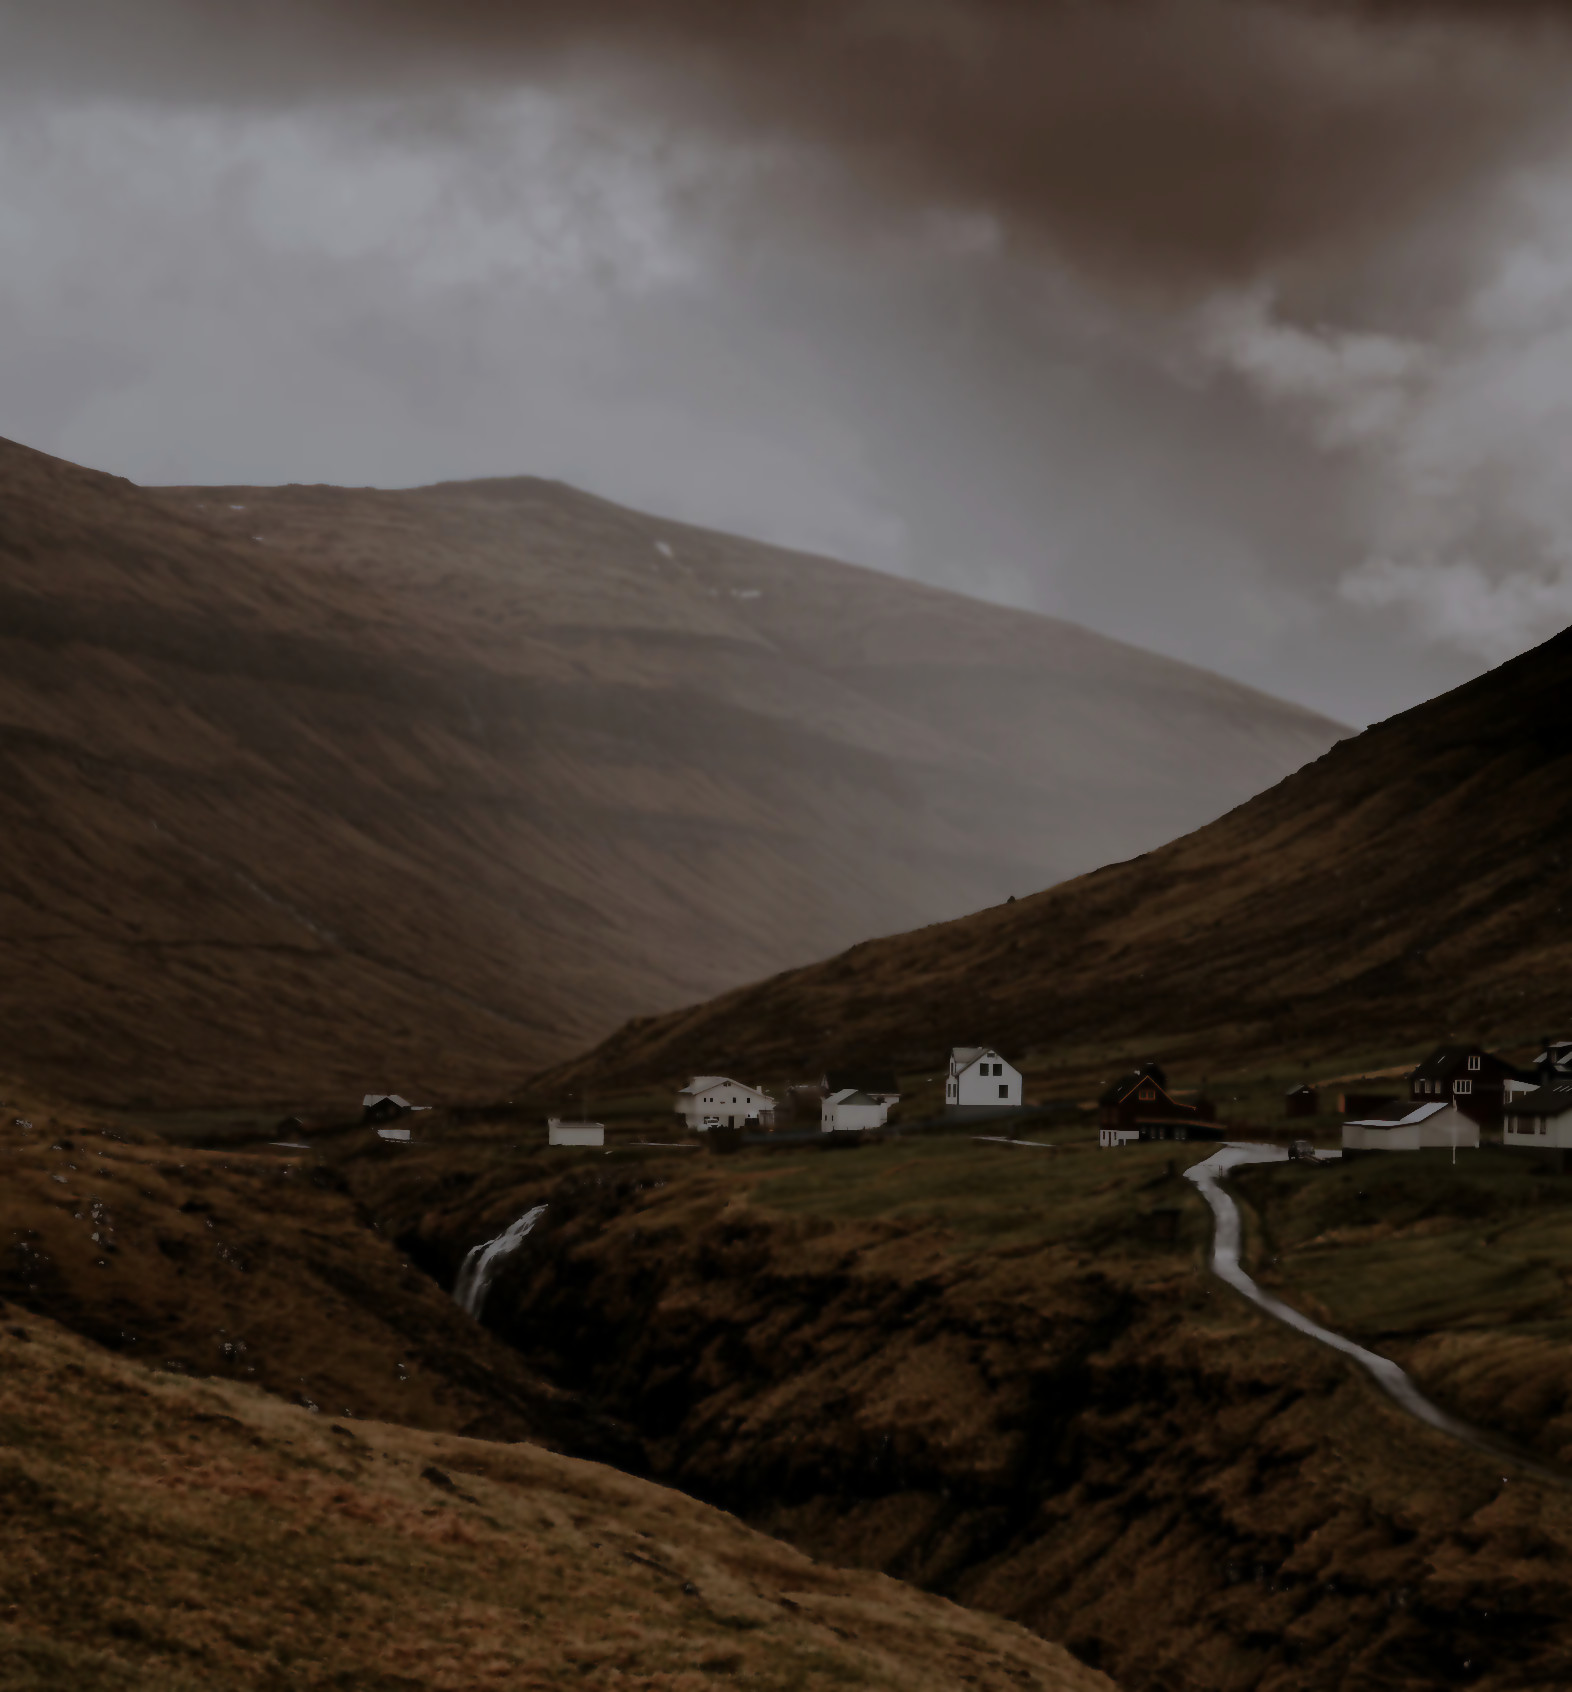
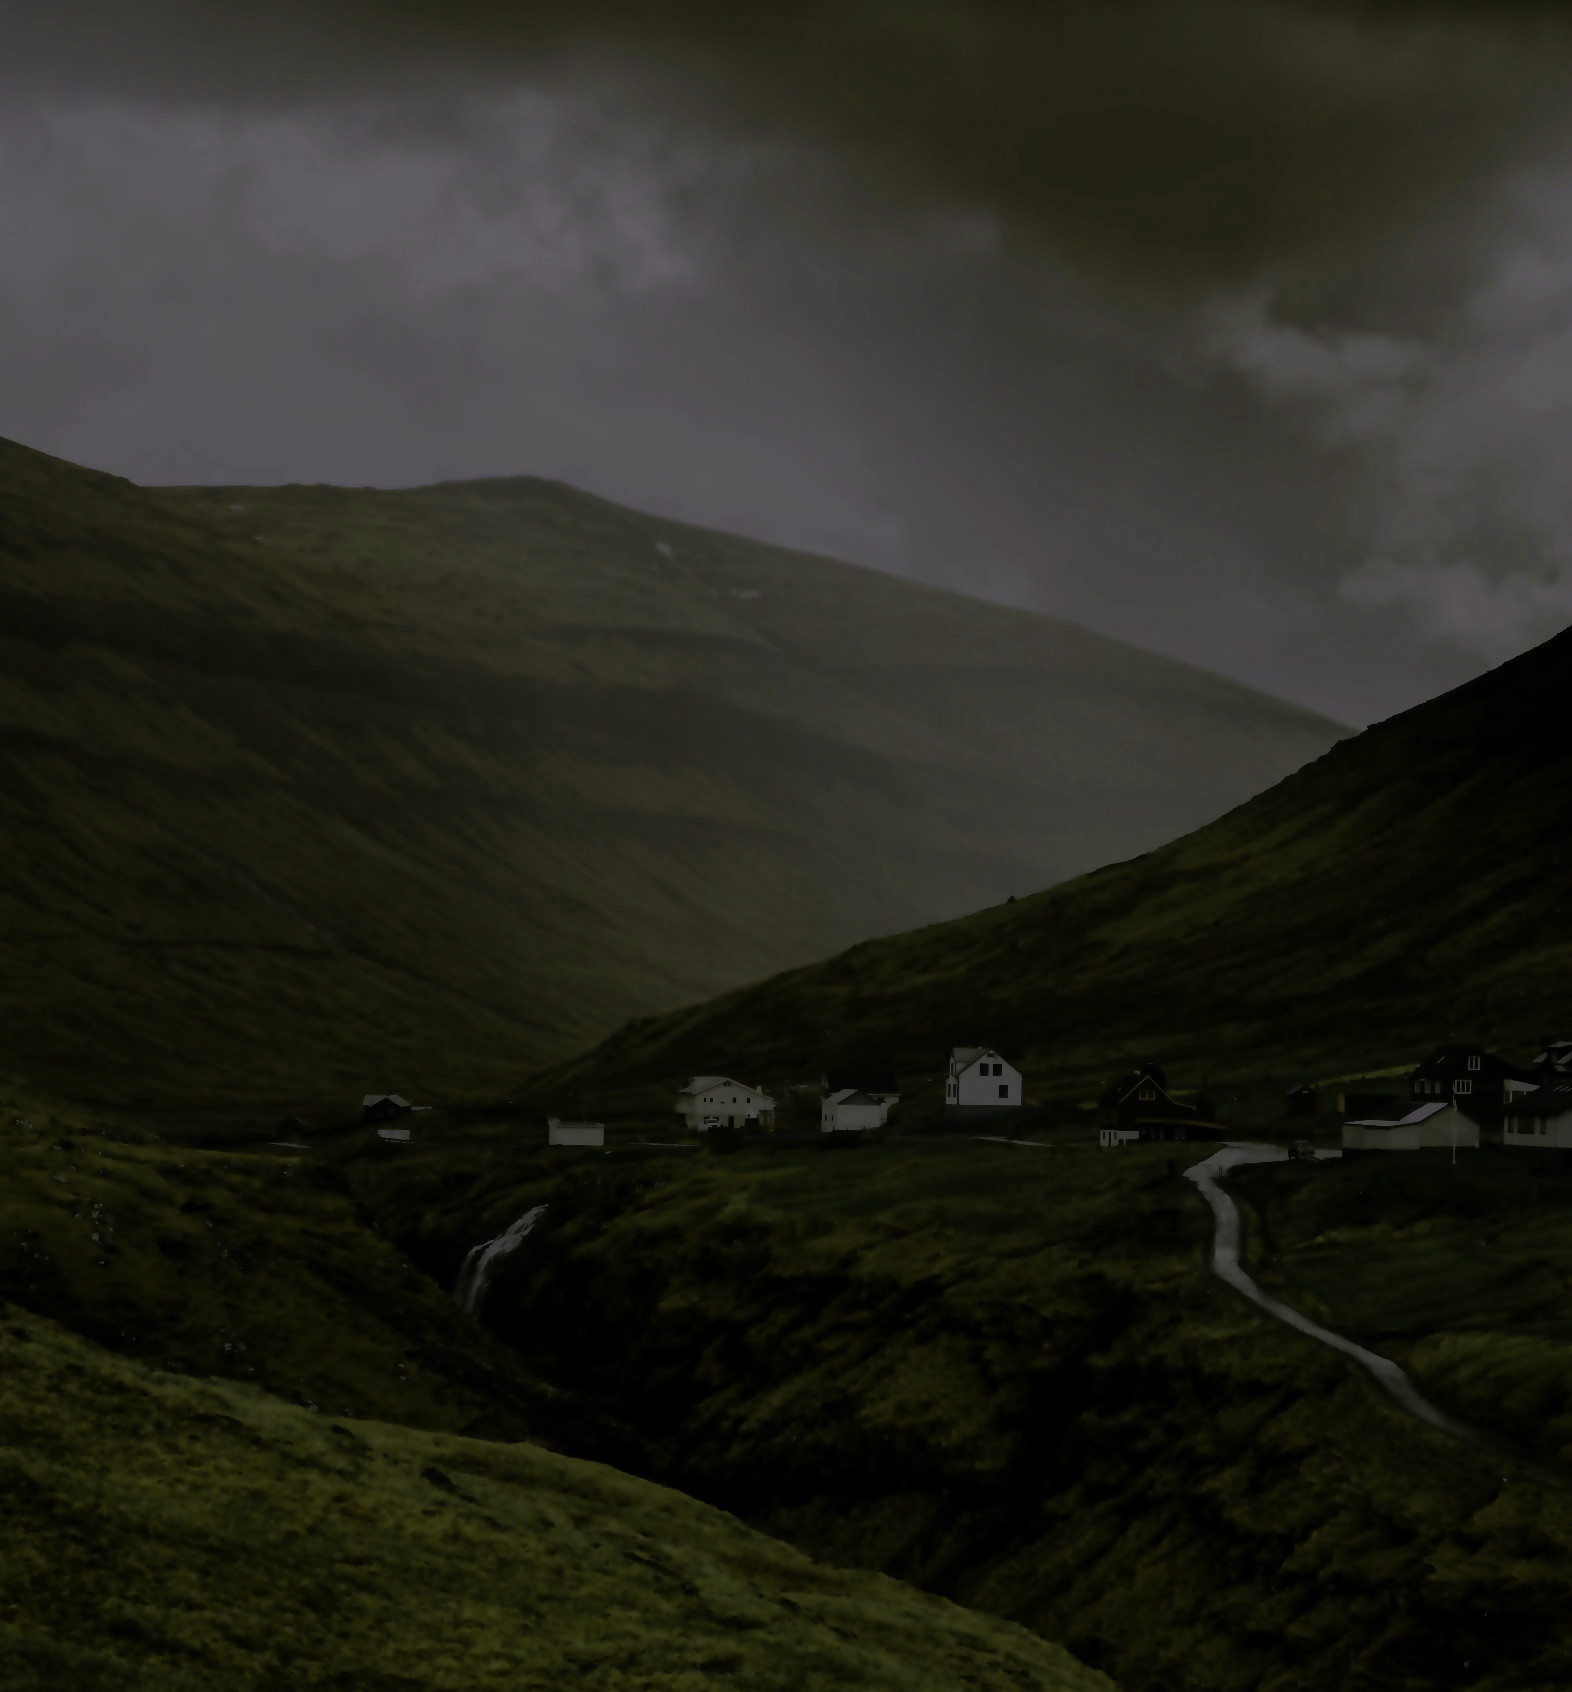
new themes with some fixes, merging to testing

diff --git a/index.php b/index.php
@@ -23,11 +23,15 @@
     <meta name="viewport" content="width=device-width, initial-scale=1.0">
     <link rel="shortcut icon" href="assets/img/favicon.ico" />
     <title><?php if($village != NULL) {echo("Villaggio ".$village['nome']." | ");}?>Lupus</title>
-    <link rel="stylesheet" href="assets/css/style.css">
     
+    <link rel="stylesheet" href="assets/css/style.css">
     <?php if($village != NULL and $village['variante'] == "space") { ?>
         <link rel="stylesheet" href="assets/css/space.css">
     <?php } elseif($village != NULL and $village['variante'] == "classic") { ?>
+        <link rel="stylesheet" href="assets/css/classic.css">
+    <?php } elseif(rand(0,1)%2 == 0) { ?>
+        <link rel="stylesheet" href="assets/css/space.css">
+    <?php } else { ?>
         <link rel="stylesheet" href="assets/css/classic.css">
     <?php } ?>
 </head>
@@ -42,6 +46,11 @@
         <ul>
             <li><a href="#players">Giocatori</a></li>
             <li><a href="#events">Calendario</a></li>
+        <?php if($village['variante'] == "space") { ?>
+            <li><a href="regolamento.php?v=space">Regolamento</a></li>
+        <?php } else { ?>
+            <li><a href="regolamento.php?v=classic">Regolamento</a></li>
+        <?php } ?>
         </ul>
     <?php } ?>
     </header>

diff --git a/populate.php b/populate.php
@@ -29,7 +29,13 @@
     <meta name="viewport" content="width=device-width, initial-scale=1.0">
     <link rel="shortcut icon" href="assets/img/favicon.ico" />
     <title>Popola <?php if(isset($village['nome'])) {echo($village['nome']);} ?> | Lupus</title>
+    
     <link rel="stylesheet" href="assets/css/style.css">
+    <?php if($village['variante'] == "space") { ?>
+        <link rel="stylesheet" href="assets/css/space.css">
+    <?php } elseif($village['variante'] == "classic") { ?>
+        <link rel="stylesheet" href="assets/css/classic.css">
+    <?php } ?>
 </head>
 
 <body style="background-image: url('assets/img/bg/<?php echo($village['variante']."/".rand(0, 5)); ?>.jpg')">

diff --git a/regolamento.php b/regolamento.php
@@ -27,6 +27,15 @@
     
     <!-- general css -->
     <link rel="stylesheet" href="assets/css/style.css">
+    <?php if($variant == "classic") { ?>
+        <link rel="stylesheet" href="assets/css/classic.css">
+    <?php } elseif($variant == "space") { ?>
+        <link rel="stylesheet" href="assets/css/space.css">
+    <?php } elseif(rand(0,1)%2 == 0) { ?>
+        <link rel="stylesheet" href="assets/css/classic.css">
+    <?php } else { ?>
+        <link rel="stylesheet" href="assets/css/space.css">
+    <?php } ?>
 </head>
 
 <body style="background-image: url('assets/img/bg/<?php echo($village['variante']."/".rand(0, 5)); ?>.jpg')">

diff --git a/login.php b/login.php
@@ -13,8 +13,13 @@
     <meta name="viewport" content="width=device-width, initial-scale=1.0">
     <link rel="shortcut icon" href="assets/img/favicon.ico" />
     <title>Login | Lupus</title>
+    
     <link rel="stylesheet" href="assets/css/style.css">
-    <link rel="stylesheet" href="assets/css/space.css">
+    <?php if(rand(0,1)%2 == 0) { ?>
+        <link rel="stylesheet" href="assets/css/space.css">
+    <?php } else { ?>
+        <link rel="stylesheet" href="assets/css/classic.css">
+    <?php } ?>
 </head>
 
 <body style="background-image: url('assets/img/bg/<?php echo($village['variante']."/".rand(0, 5)); ?>.jpg')">

diff --git a/edit.php b/edit.php
@@ -35,8 +35,8 @@
     <meta name="viewport" content="width=device-width, initial-scale=1.0">
     <link rel="shortcut icon" href="assets/img/favicon.ico" />
     <title>Gestisci <?php echo($village['nome']);?> | Lupus</title>
+    
     <link rel="stylesheet" href="assets/css/style.css">
-
     <?php if($village['variante'] == "space") { ?>
         <link rel="stylesheet" href="assets/css/space.css">
     <?php } elseif($village['variante'] == "classic") { ?>
